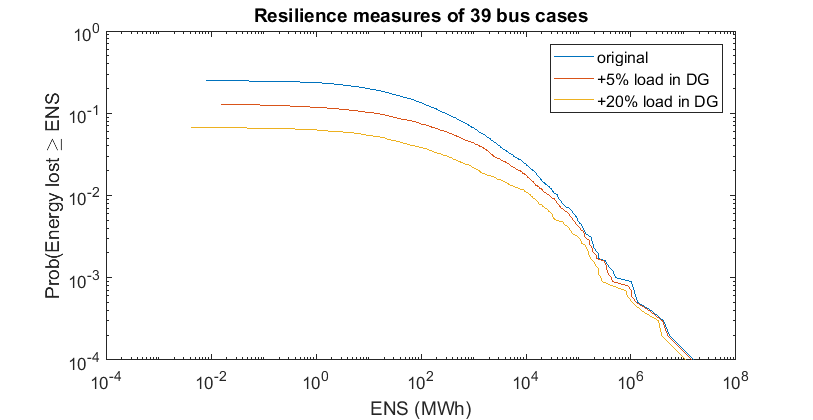
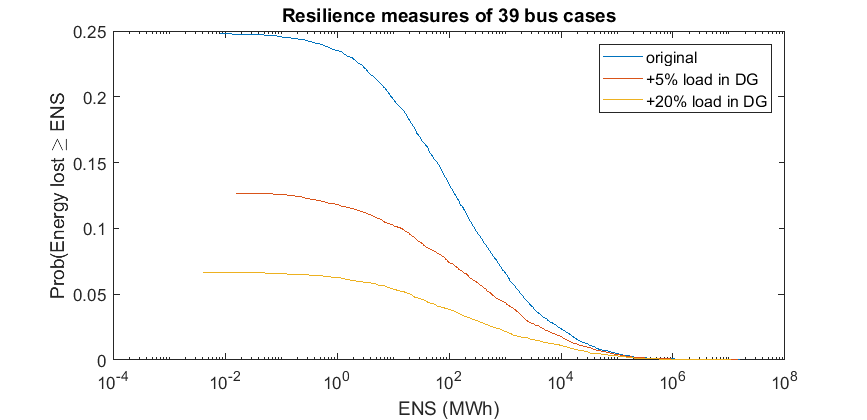
minor edit for visability

diff --git a/CRISP/MakeHist.m b/CRISP/MakeHist.m
@@ -54,14 +54,14 @@
 % costs3 = xlsread('results\experiments\6\res_out_case39_20PV_fair-sample.csv');
 % costs4 = xlsread('results\experiments\6\res_out_case39_100PV_fair-sample.csv');
 
-% costs1 = xlsread('results\experiments\6\res_out_case39_p1_2.csv');
-% costs2 = xlsread('results\experiments\6\res_out_case39_05PV_p1_2.csv');
-% costs3 = xlsread('results\experiments\6\res_out_case39_20PV_p1_2.csv');
+costs1 = xlsread('results\experiments\6\res_out_case39_p1_2.csv');
+costs2 = xlsread('results\experiments\6\res_out_case39_05PV_p1_2.csv');
+costs3 = xlsread('results\experiments\6\res_out_case39_20PV_p1_2.csv');
 costs4 = xlsread('results\experiments\6\res_out_case39_100PV_p1_2.csv');
 
-costs1 = xlsread('results\experiments\6\res_out_case39_p1_3.csv');
-costs2 = xlsread('results\experiments\6\res_out_case39_05PV_p1_3.csv');
-costs3 = xlsread('results\experiments\6\res_out_case39_20PV_p1_3.csv');
+% costs1 = xlsread('results\experiments\6\res_out_case39_p1_3.csv');
+% costs2 = xlsread('results\experiments\6\res_out_case39_05PV_p1_3.csv');
+% costs3 = xlsread('results\experiments\6\res_out_case39_20PV_p1_3.csv');
 % costs4 = xlsread('results\experiments\6\res_out_case39_100PV_p1_3.csv');
 
 % costs1 = xlsread('results\experiments\0\res_out_case39_0_out.csv');
@@ -100,17 +100,17 @@ for jj = 1:N
 end
 
 figure(1)
-subplot(1,2,1)
-hold on
-loglog(sorted_costs1,Pr)
-
-loglog(sorted_costs2,Pr)
-loglog(sorted_costs3,Pr)
-% semilogx(sorted_costs1,Pr)
+% subplot(1,2,1)
 % hold on
-% semilogx(sorted_costs2,Pr)
-% semilogx(sorted_costs3,Pr)
-%semilogx(sorted_costs4,Pr)
+% loglog(sorted_costs1,Pr)
+% 
+% loglog(sorted_costs2,Pr)
+% loglog(sorted_costs3,Pr)
+semilogx(sorted_costs1,Pr)
+hold on
+semilogx(sorted_costs2,Pr)
+semilogx(sorted_costs3,Pr)
+% semilogx(sorted_costs4,Pr)
 title("Resilience measures of 39 bus cases")
 % legend("original", "original2")
 legend("original", "+5% load in DG", "+20% load in DG")%, "39 bus +100% load in DG")
